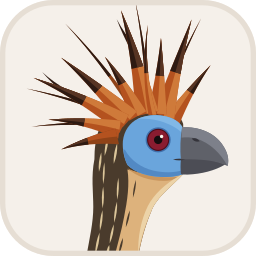
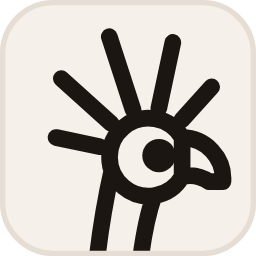
feat(brand): redraw the Hoatzin mark as geometric line art (SKY-28) (#689)
* feat(brand): redraw the Hoatzin mark as monochrome line art

The colour Hoatzin becomes precise line art: the visible edges of the old
bird (same crest, face patch, ringed eye, bill and neck), plus feather
shafts and tip bands, face contours, neck streaks and faint construction
guides. Every stroke is currentColor with non-scaling widths, so it holds
in light and dark.

HoatzinShapes takes a detail level: "full" for large marks and the
login/splash lockups, "simple" (silhouette, quills, eye, bill) for the
header lockup and the icon-sized SkynetMark. The favicons and the
notification icon use a thick-stroke version that still reads at 16px.
The favicon cache-buster moves to v=5.

Claude-Session: https://claude.ai/code/session_01WaWZzAi1asnSgKYBeS3y81

* feat(brand): rebuild the Hoatzin mark from geometric primitives

The traced line art read hand-sketched at large sizes and smudged at
header size. The mark is now built from a few primitives:
- the face is a circle cut by a straight bill base;
- the bill is two arcs meeting at the tip;
- the crest is an even radial fan (20 degrees apart) centred on the face;
- the neck is one curve and the same curve shifted forward.
The eye keeps its position, so the wordmark lockup still aligns.

Full detail: seven lozenge feathers with spines, a ringed eye, three neck
bands and one faint guide circle around the eye. Simple detail (icons,
header lockup, favicons): five single-stroke feathers on the same fan,
[…]

diff --git a/frontend/src/shared/ui/skynet-mark.tsx b/frontend/src/shared/ui/skynet-mark.tsx
@@ -1,102 +1,92 @@
 import type { SVGProps } from "react";
 
 /**
- * Skynet's brand mark: a Hoatzin (Opisthocomus hoazin) head in the bird's own colours:
- * bronze head, buff throat, ragged rufous crest, bare blue face, red eye and slate bill.
- * The colours are fixed, not theme tokens, so the bird reads the same in both themes.
- * The neck runs off the bottom edge on purpose; round containers clip it there.
+ * Skynet's brand mark: a Hoatzin (Opisthocomus hoazin) head as minimal geometric line art.
+ * It is built from a few primitives in a 512-unit drawing:
+ * - the face is a circle (centre 288,288, r 70) cut by a straight bill base;
+ * - the bill is the top terminal of the wordmark's default "S": an outer arc, a flat cut at
+ *   the tip and a concave arc back to the face, so the tip hooks below the gape;
+ * - the crest is an even radial fan centred on the face circle, longest in the middle;
+ * - the neck is one curve and the same curve shifted forward.
+ * Every stroke is `currentColor`, so the mark takes the surrounding text colour in both
+ * themes. The neck runs off the bottom edge on purpose; round containers clip it there.
+ *
+ * Two levels of detail, picked by rendered size:
+ * - "full" (about 64px and up): seven lozenge feathers with spines, a ringed eye, three
+ *   neck bands and one faint guide circle around the eye.
+ * - "simple" (icon sizes, and the favicons): five single-stroke feathers, a solid eye and
+ *   strokes that scale with the mark so they stay distinct at 16-32px.
  */
 
-type Shape = { fill: string; d: string } | { fill: string; cx: number; cy: number; r: number };
+export type HoatzinDetail = "full" | "simple";
 
-// Square crop of the 512-unit source drawing, centred on the bird.
+// Square crop of the 512-unit drawing, centred on the bird.
 export const HOATZIN_VIEWBOX = "-2 12 500 500";
 
 // Tight crop for the wordmark lockup: crest tips to mid-neck, no side padding.
 export const HOATZIN_LOCKUP_VIEWBOX = "48 12 400 432";
 
-// Paint order matters: head and throat, crest, blue face, eye, then the bill over the face.
-const SHAPES: readonly Shape[] = [
-  { fill: "#4a3b2c", d: "M355.8 254.1C346.9 227.4 315.8 211.9 280.2 211.9C238 211.9 204.6 231.9 191.3 265.2C184.6 283 182.4 303 182.4 323C175.7 356.4 180.2 387.5 180.2 416.4C180.2 446.7 173 477.1 166.8 512L268.2 512C274.3 476 285.1 443.7 295.8 418.6C309.1 391.9 338 371.9 355.8 351.9Z" },
-  { fill: "#ddb27c", d: "M355.8 351.9C338 371.9 309.1 391.9 295.8 418.6C285.1 443.7 274.3 476 268.2 512L221.9 512C228 487.4 235.3 462.5 240.2 436.4C246.9 403.1 251.3 371.9 246.9 343C271.3 351.9 315.8 358.6 355.8 351.9Z" },
-  { fill: "#c9955c", d: "M246.9 340.8C264.7 357.5 291.4 365.3 318 365.3C331.4 365.3 342.5 361.9 351.4 356.4C331.4 359.7 306.9 358.6 284.7 353C269.1 349.7 255.8 345.3 246.9 340.8Z" },
-  { fill: "#ecd3a8", d: "M355.8 351.9C338 371.9 309.1 391.9 295.8 418.6C284.7 443.1 273.6 472 268 507.6C266.9 474.2 273.6 440.9 286.9 414.2C298 391.9 322.5 369.7 346.9 356.4Z" },
-  { fill: "#4a3b2c", d: "M263.6 363.3Q257.3 380.3 257.6 398.4Q263.9 381.4 263.6 363.3ZM251.7 422.8Q244.1 438.5 243.7 456Q251.3 440.3 251.7 422.8ZM238.3 476.5Q230.3 491.3 230.2 508Q238.2 493.3 238.3 476.5Z" },
-  { fill: "#dcc69a", d: "M201.8 329Q197.1 350.2 199.5 371.7Q204.2 350.6 201.8 329ZM199.5 376.4Q195 397.6 198.4 419Q202.9 397.8 199.5 376.4ZM198.2 422.4Q191.5 442.1 193.1 462.8Q199.9 443.1 198.2 422.4ZM192.5 466.2Q183.8 486.4 184 508.4Q192.7 488.2 192.5 466.2ZM229.2 359.1Q224.3 380.4 227 402.2Q231.8 380.8 229.2 359.1ZM226.6 405.7Q219.7 425.9 220.9 447.1Q227.8 427 226.6 405.7ZM220.3 450.1Q212 467.9 212.2 487.5Q220.5 469.8 220.3 450.1ZM211.4 490.5Q204.4 500.2 206.4 512Q213.5 502.3 211.4 490.5ZM209.1 278.6Q201.4 296.7 202.4 316.4Q210.1 298.2 209.1 278.6ZM226.9 291.9Q218.9 311.1 220.2 331.9Q228.1 312.7 226.9 291.9ZM195.8 309.7Q189.1 328.1 191.3 347.5Q197.9 329.1 195.8 309.7Z" },
-  { fill: "#8f4318", d: "M312 238.6Q345.2 140.6 390.7 48.1Q341.1 138.8 301.8 234.1ZM294.6 233.4Q286.6 122.5 262.1 13.7Q282.2 123.1 283.6 234.8ZM269.1 232.9Q205.7 138.9 125.5 58.2Q202.2 141.6 260.3 239.7ZM248.5 239.9Q151.4 205.1 49.8 185Q150.1 209.3 245.3 250.5ZM235.7 250.8Q147.6 246.8 59.7 259.4Q147.6 251.3 235.9 261.9Z" },
-  { fill: "#2e1a12", d: "M341.1 159.6Q363.8 102.8 390.7 48.1Q361.4 101.8 335.6 157.1ZM285.4 143.8Q276.7 78.4 262.1 13.7Q274 78.7 279.4 144.6ZM214.7 158.6Q173.1 106 125.5 58.2Q171 107.7 209.9 162.3ZM166.6 213.4Q109 196.7 49.8 185Q108.2 199.2 164.9 219.1ZM159.6 250.5Q109.6 252.3 59.7 259.4Q109.7 254.8 159.7 256.2Z" },
-  { fill: "#b4521f", d: "M347.3 257Q372.6 194.1 409.3 139.3Q361.7 186.5 319.9 237.9Z" },
-  { fill: "#cf7a3a", d: "M319.9 237.9Q361.7 186.5 409.3 139.3Q367.1 190.3 333.6 247.4Z" },
-  { fill: "#2e1a12", d: "M375.4 196.1Q391 166.7 409.3 139.3Q385.5 162.9 363.2 187.5Z" },
-  { fill: "#573423", d: "M363.2 187.5Q385.5 162.9 409.3 139.3Q388.2 164.8 369.3 191.8Z" },
-  { fill: "#b4521f", d: "M338.3 244.4Q349.4 145.5 372.1 50.1Q333.2 140.9 297.7 232.7Z" },
-  { fill: "#cf7a3a", d: "M338.3 244.4Q349.4 145.5 372.1 50.1Q341.3 143.2 318 238.5Z" },
-  { fill: "#2e1a12", d: "M350.6 156.3Q359.6 102.7 372.1 50.1Q350.6 100.1 330.2 150.5Z" },
-  { fill: "#573423", d: "M350.6 156.3Q359.6 102.7 372.1 50.1Q355.1 101.4 340.4 153.4Z" },
-  { fill: "#b4521f", d: "M323.6 235.1Q319.1 160.7 312.4 86.2Q304 159.9 285.8 233.1Z" },
-  { fill: "#cf7a3a", d: "M323.6 235.1Q319.1 160.7 312.4 86.2Q311.5 160.3 304.7 234.1Z" },
-  { fill: "#2e1a12", d: "M318.5 160.7Q315.8 123.5 312.4 86.2Q308.2 123.1 301.6 159.8Z" },
-  { fill: "#573423", d: "M318.5 160.7Q315.8 123.5 312.4 86.2Q312 123.3 310 160.2Z" },
-  { fill: "#2e1a12", d: "M260.7 101.5Q240.7 76.9 225.9 49.4Q237.1 78.9 251.7 106.4Z" },
-  { fill: "#b4521f", d: "M307.3 228.5Q276.6 128.9 234.3 32.2Q258.5 133.4 262 239.7Z" },
-  { fill: "#cf7a3a", d: "M307.3 228.5Q276.6 128.9 234.3 32.2Q267.6 131.1 284.7 234.1Z" },
-  { fill: "#2e1a12", d: "M277.9 140.9Q257.9 86.1 234.3 32.2Q247.8 88.6 254.9 146.7Z" },
-  { fill: "#573423", d: "M277.9 140.9Q257.9 86.1 234.3 32.2Q252.9 87.4 266.4 143.8Z" },
-  { fill: "#b4521f", d: "M283.4 229.4Q248.4 173.3 202.9 123Q235.2 180.6 250.4 247.7Z" },
-  { fill: "#cf7a3a", d: "M283.4 229.4Q248.4 173.3 202.9 123Q241.8 177 266.9 238.5Z" },
-  { fill: "#2e1a12", d: "M243.3 171.5Q224.3 146.6 202.9 123Q218.1 150.1 229.5 179.2Z" },
-  { fill: "#573423", d: "M243.3 171.5Q224.3 146.6 202.9 123Q221.2 148.4 236.4 175.4Z" },
-  { fill: "#b4521f", d: "M265.5 229.5Q193.7 174.7 117.5 124.7Q182.4 187.2 237.2 260.9Z" },
-  { fill: "#cf7a3a", d: "M265.5 229.5Q193.7 174.7 117.5 124.7Q188 181 251.3 245.2Z" },
-  { fill: "#2e1a12", d: "M197.5 179.4Q158.1 151.4 117.5 124.7Q152.1 158.1 183.8 194.6Z" },
-  { fill: "#573423", d: "M197.5 179.4Q158.1 151.4 117.5 124.7Q155.1 154.7 190.7 187Z" },
-  { fill: "#2e1a12", d: "M128.6 187.4Q102.2 172.6 80.2 152.6Q99.9 175.3 122.9 194.2Z" },
-  { fill: "#b4521f", d: "M249.3 236.3Q160.1 193.2 63.7 164.2Q152.8 207.5 231.1 271.9Z" },
-  { fill: "#cf7a3a", d: "M249.3 236.3Q160.1 193.2 63.7 164.2Q156.5 200.3 240.2 254.1Z" },
-  { fill: "#2e1a12", d: "M166.7 200Q116.3 180 63.7 164.2Q112.3 187.8 157.7 217.7Z" },
-  { fill: "#573423", d: "M166.7 200Q116.3 180 63.7 164.2Q114.3 183.9 162.2 208.9Z" },
-  { fill: "#b4521f", d: "M233.8 247.6Q164.1 240.1 92.6 245.7Q162.2 254.2 228.8 282.8Z" },
-  { fill: "#cf7a3a", d: "M233.8 247.6Q164.1 240.1 92.6 245.7Q163.1 247.2 231.3 265.2Z" },
-  { fill: "#2e1a12", d: "M163.7 243.4Q128.4 242.9 92.6 245.7Q127.4 250 161.4 259.2Z" },
-  { fill: "#573423", d: "M163.7 243.4Q128.4 242.9 92.6 245.7Q127.9 246.4 162.6 251.3Z" },
-  { fill: "#8f4318", d: "M223.4 263.4Q169.1 277.5 117.7 303.8Q171.9 289.6 230.4 293.7Z" },
-  { fill: "#b4521f", d: "M223.4 263.4Q169.1 277.5 117.7 303.8Q170.5 283.5 226.9 278.6Z" },
-  { fill: "#2e1a12", d: "M167.9 281.2Q142.5 291.1 117.7 303.8Q143.8 296.9 171 294.4Z" },
-  { fill: "#573423", d: "M167.9 281.2Q142.5 291.1 117.7 303.8Q143.2 294 169.5 287.8Z" },
-  { fill: "#b4521f", d: "M303.6 235.9Q278.5 149.1 286.6 60.5Q272.3 149.4 288 236.7Z" },
-  { fill: "#cf7a3a", d: "M303.6 235.9Q278.5 149.1 286.6 60.5Q275.4 149.2 295.8 236.3Z" },
-  { fill: "#2e1a12", d: "M287.4 154.6Q282.3 107.8 286.6 60.5Q278.9 108 279.9 155Z" },
-  { fill: "#573423", d: "M287.4 154.6Q282.3 107.8 286.6 60.5Q280.6 107.9 283.6 154.8Z" },
-  { fill: "#6aa5dc", d: "M355.8 263C349.2 249.7 335.8 241.9 318 238.5C300.2 235.2 282.5 237.4 266.9 244.1C251.3 251.9 240.2 267.4 238 287.5C236.9 305.2 240.2 320.8 246.9 334.1C262.4 349.7 286.9 356.4 311.4 357.5C329.1 358.6 344.7 356.4 355.8 351.9Z" },
-  { fill: "#5289c4", d: "M239.1 303C240.2 316.4 242.4 325.3 246.9 334.1C262.4 349.7 286.9 356.4 311.4 357.5C329.1 358.6 344.7 356.4 355.8 351.9L355.8 344.1C338 349.7 318 349.7 298 345.3C273.6 339.7 253.6 325.3 242.4 305.2C241.3 304.1 240.2 304.1 239.1 303Z" },
-  { fill: "#82b8e6", d: "M355.8 263C349.2 249.7 335.8 241.9 318 238.5C300.2 235.2 282.5 237.4 266.9 244.1C284.7 243 302.5 245.2 318 250.8C333.6 256.3 346.9 264.1 355.8 274.1Z" },
-  { fill: "#3f6faa", cx: 306.9, cy: 285.2, r: 24.5 },
-  { fill: "#4e0d1a", cx: 306.9, cy: 285.2, r: 21.7 },
-  { fill: "#8a1c30", cx: 306.9, cy: 285.2, r: 19.5 },
-  { fill: "#140c0d", cx: 306.9, cy: 285.2, r: 8.2 },
-  { fill: "#fff8f0", cx: 313.6, cy: 278.6, r: 3.3 },
-  { fill: "#4c4d55", d: "M351.4 319.7C371.4 318.6 409.2 320.8 438.1 333C418.1 345.3 391.4 351.9 364.7 353C358 353 353.6 353 351.4 351.9C350.3 343 350.3 331.9 351.4 323Z" },
-  { fill: "#35343b", d: "M335.8 323.6Q348 326.9 360.3 323.6Q348 320.2 335.8 323.6Z" },
-  { fill: "#5f6169", d: "M353.6 260.8C386.9 258.6 418.1 271.9 433.6 296.4C442.5 309.7 445.9 323 442.5 336.4C429.2 329.7 411.4 325.3 391.4 324.1C375.8 323 362.5 323 351.4 323C349.2 303 350.3 280.8 353.6 260.8Z" },
-  { fill: "#7d808a", d: "M353.6 260.8C386.9 258.6 418.1 271.9 433.6 296.4C442.5 309.7 445.9 323 442.5 336.4C429.2 311.9 409.2 291.9 382.5 283C371.4 279.7 361.4 279.7 352.5 280.8Z" },
-  { fill: "#35343b", d: "M372.5 282.5Q378.3 290.7 388.1 288Q382.2 279.8 372.5 282.5Z" },
-];
+// The wordmark lockup aligns the letters' centre line to this point.
+const EYE = { cx: 306.9, cy: 285.2 };
 
-/** The bird's shapes, for nesting inside another SVG. */
-export function HoatzinShapes() {
+// The face circle is closed by the bill base, a chord between its points at -30° and +30°.
+const FACE = "M348.6 253A70 70 0 1 0 348.6 323Z";
+// Outer arc (r 74, centre 348.3,327, like the S's top) to a tip 4° below its centre, a flat
+// cut a third of that radius (the S's terminal), then a concave r 60 arc back to the face
+// (the S's counter). The bill reaches about 64 units past the face, with its tip just below the gape.
+const BILL = "M348.6 253A74 74 0 0 1 422.1 332.2H396.9A60 60 0 0 0 348.6 323";
+const NECK = "M222.2 311.9Q200 410 190 524M298.3 357.2Q277.6 415.1 268 524";
+const NECK_BANDS = "M219.4 418L269.6 406M214.3 454L262.6 442M209.9 490L257.3 478";
+
+// Seven feathers 20° apart (168° to 48°), each a lozenge from r 84 around the face centre.
+// Lengths follow a sine curve, longest in the middle (r 236) and r 168 at both ends.
+const CREST =
+  "M205.8 270.5L178.5 278 123.7 253.1 183.9 252.6Z" +
+  "M216.8 243.5L179.9 235.8 116.7 181 193.6 213.7Z" +
+  "M236.3 221.8L199.6 196 148.3 109.2 220.1 180Z" +
+  "M262 208.1L235.6 168.8 215.1 63.6 260.3 160.7Z" +
+  "M290.9 204.1L279.4 160.8 295.9 61.2 305.4 161.7Z" +
+  "M319.5 210.1L320.7 172.4 363.7 100.7 344.8 182.2Z" +
+  "M344.2 225.6L351.4 198.1 400.4 163.2 370.7 215.5Z";
+const CREST_SPINES =
+  "M205.8 270.5L154.9 259.7M216.8 243.5L154.7 204.7M236.3 221.8L181.7 152M262 208.1L232.9 118.5" +
+  "M290.9 204.1L294 115.5M319.5 210.1L346.9 142.3M344.2 225.6L379.1 186.9";
+
+// Five feathers 30° apart on the same fan, as single strokes from r 90, graduated r 228 to r 170.
+const CREST_SIMPLE =
+  "M200 269.3L121.7 252.7M221.1 227.8L131.2 146.8M260.2 202.4L217.5 71.2M306.7 200L331.9 81.6M348.2 221.1L401.8 161.7";
+
+/**
+ * The bird's strokes in the 512-unit drawing, for embedding in another SVG (the wordmark
+ * lockup). Renders at any size; the caller picks the detail level for its size.
+ */
+export function HoatzinShapes({ detail = "full" }: { detail?: HoatzinDetail }) {
+  if (detail === "simple") {
+    return (
+      <g fill="none" stroke="currentColor" strokeWidth={26} strokeLinecap="round" strokeLinejoin="round">
+        <path d={CREST_SIMPLE + FACE + BILL + NECK} />
+        <circle {...EYE} r={26} fill="currentColor" stroke="none" />
+      </g>
+    );
+  }
+  const line = { vectorEffect: "non-scaling-stroke" } as const;
   return (
-    <>
-      {SHAPES.map((s, i) =>
-        "d" in s ? <path key={i} fill={s.fill} d={s.d} /> : <circle key={i} fill={s.fill} cx={s.cx} cy={s.cy} r={s.r} />,
-      )}
-    </>
+    <g fill="none" stroke="currentColor" strokeLinecap="round" strokeLinejoin="round">
+      <circle {...EYE} r={44} strokeWidth={0.75} strokeOpacity={0.35} {...line} />
+      <path d={CREST_SPINES + NECK_BANDS} strokeWidth={1} {...line} />
+      <path d={CREST + FACE + BILL + NECK} strokeWidth={1.5} {...line} />
+      <circle {...EYE} r={26} strokeWidth={1.5} {...line} />
+      <circle {...EYE} r={15} strokeWidth={1} {...line} />
+      <circle {...EYE} r={6} fill="currentColor" stroke="none" />
+    </g>
   );
 }
 
-export function SkynetMark(props: SVGProps<SVGSVGElement>) {
+/** The standalone mark. Defaults to the reduced detail its icon-sized call sites need. */
+export function SkynetMark({ detail = "simple", ...props }: SVGProps<SVGSVGElement> & { detail?: HoatzinDetail }) {
   return (
     <svg viewBox={HOATZIN_VIEWBOX} xmlns="http://www.w3.org/2000/svg" {...props}>
-      <HoatzinShapes />
+      <HoatzinShapes detail={detail} />
     </svg>
   );
 }

diff --git a/frontend/src/shared/lib/color-theme.ts b/frontend/src/shared/lib/color-theme.ts
@@ -55,7 +55,7 @@ export function applyResolvedColorTheme(resolved: ResolvedColorTheme): void {
   root.style.colorScheme = resolved === "dark" ? "dark" : "light";
   // The tab icon follows the painted theme, not the OS, so a Dark choice on a
   // light OS still gets the dark tile.
-  const href = resolved === "dark" ? "/favicon-dark.svg?v=4" : "/favicon.svg?v=4";
+  const href = resolved === "dark" ? "/favicon-dark.svg?v=8" : "/favicon.svg?v=8";
   document.querySelectorAll<HTMLLinkElement>('link[rel~="icon"]').forEach((link) => {
     if (link.getAttribute("href") !== href) link.href = href;
   });

diff --git a/frontend/src/shared/ui/animated-wordmark.tsx b/frontend/src/shared/ui/animated-wordmark.tsx
@@ -326,7 +326,9 @@ export function AnimatedWordmark({
       >
         {withMark && (
           <svg y={MARK_TOP} width={MARK_WIDTH} height={MARK_HEIGHT} viewBox={HOATZIN_LOCKUP_VIEWBOX}>
-            <HoatzinShapes />
+            {/* Fluid lockups fill a wide column; fixed ones are header-sized, where the
+                full line work would blur together. */}
+            <HoatzinShapes detail={fluid || svgHeight >= 64 ? "full" : "simple"} />
           </svg>
         )}
         {LETTERS.map((letter, li) => (

diff --git a/frontend/src/app/layout.tsx b/frontend/src/app/layout.tsx
@@ -119,8 +119,8 @@ export async function generateMetadata(): Promise<Metadata> {
     icons: {
       // Versioned to evict browsers' sticky favicon caches, which survive
       // hard refreshes and kept serving the original robot-arm icon.
-      icon: "/favicon.svg?v=4",
-      apple: "/favicon.svg?v=4",
+      icon: "/favicon.svg?v=8",
+      apple: "/favicon.svg?v=8",
     },
     metadataBase: new URL(siteUrl),
     alternates: {
